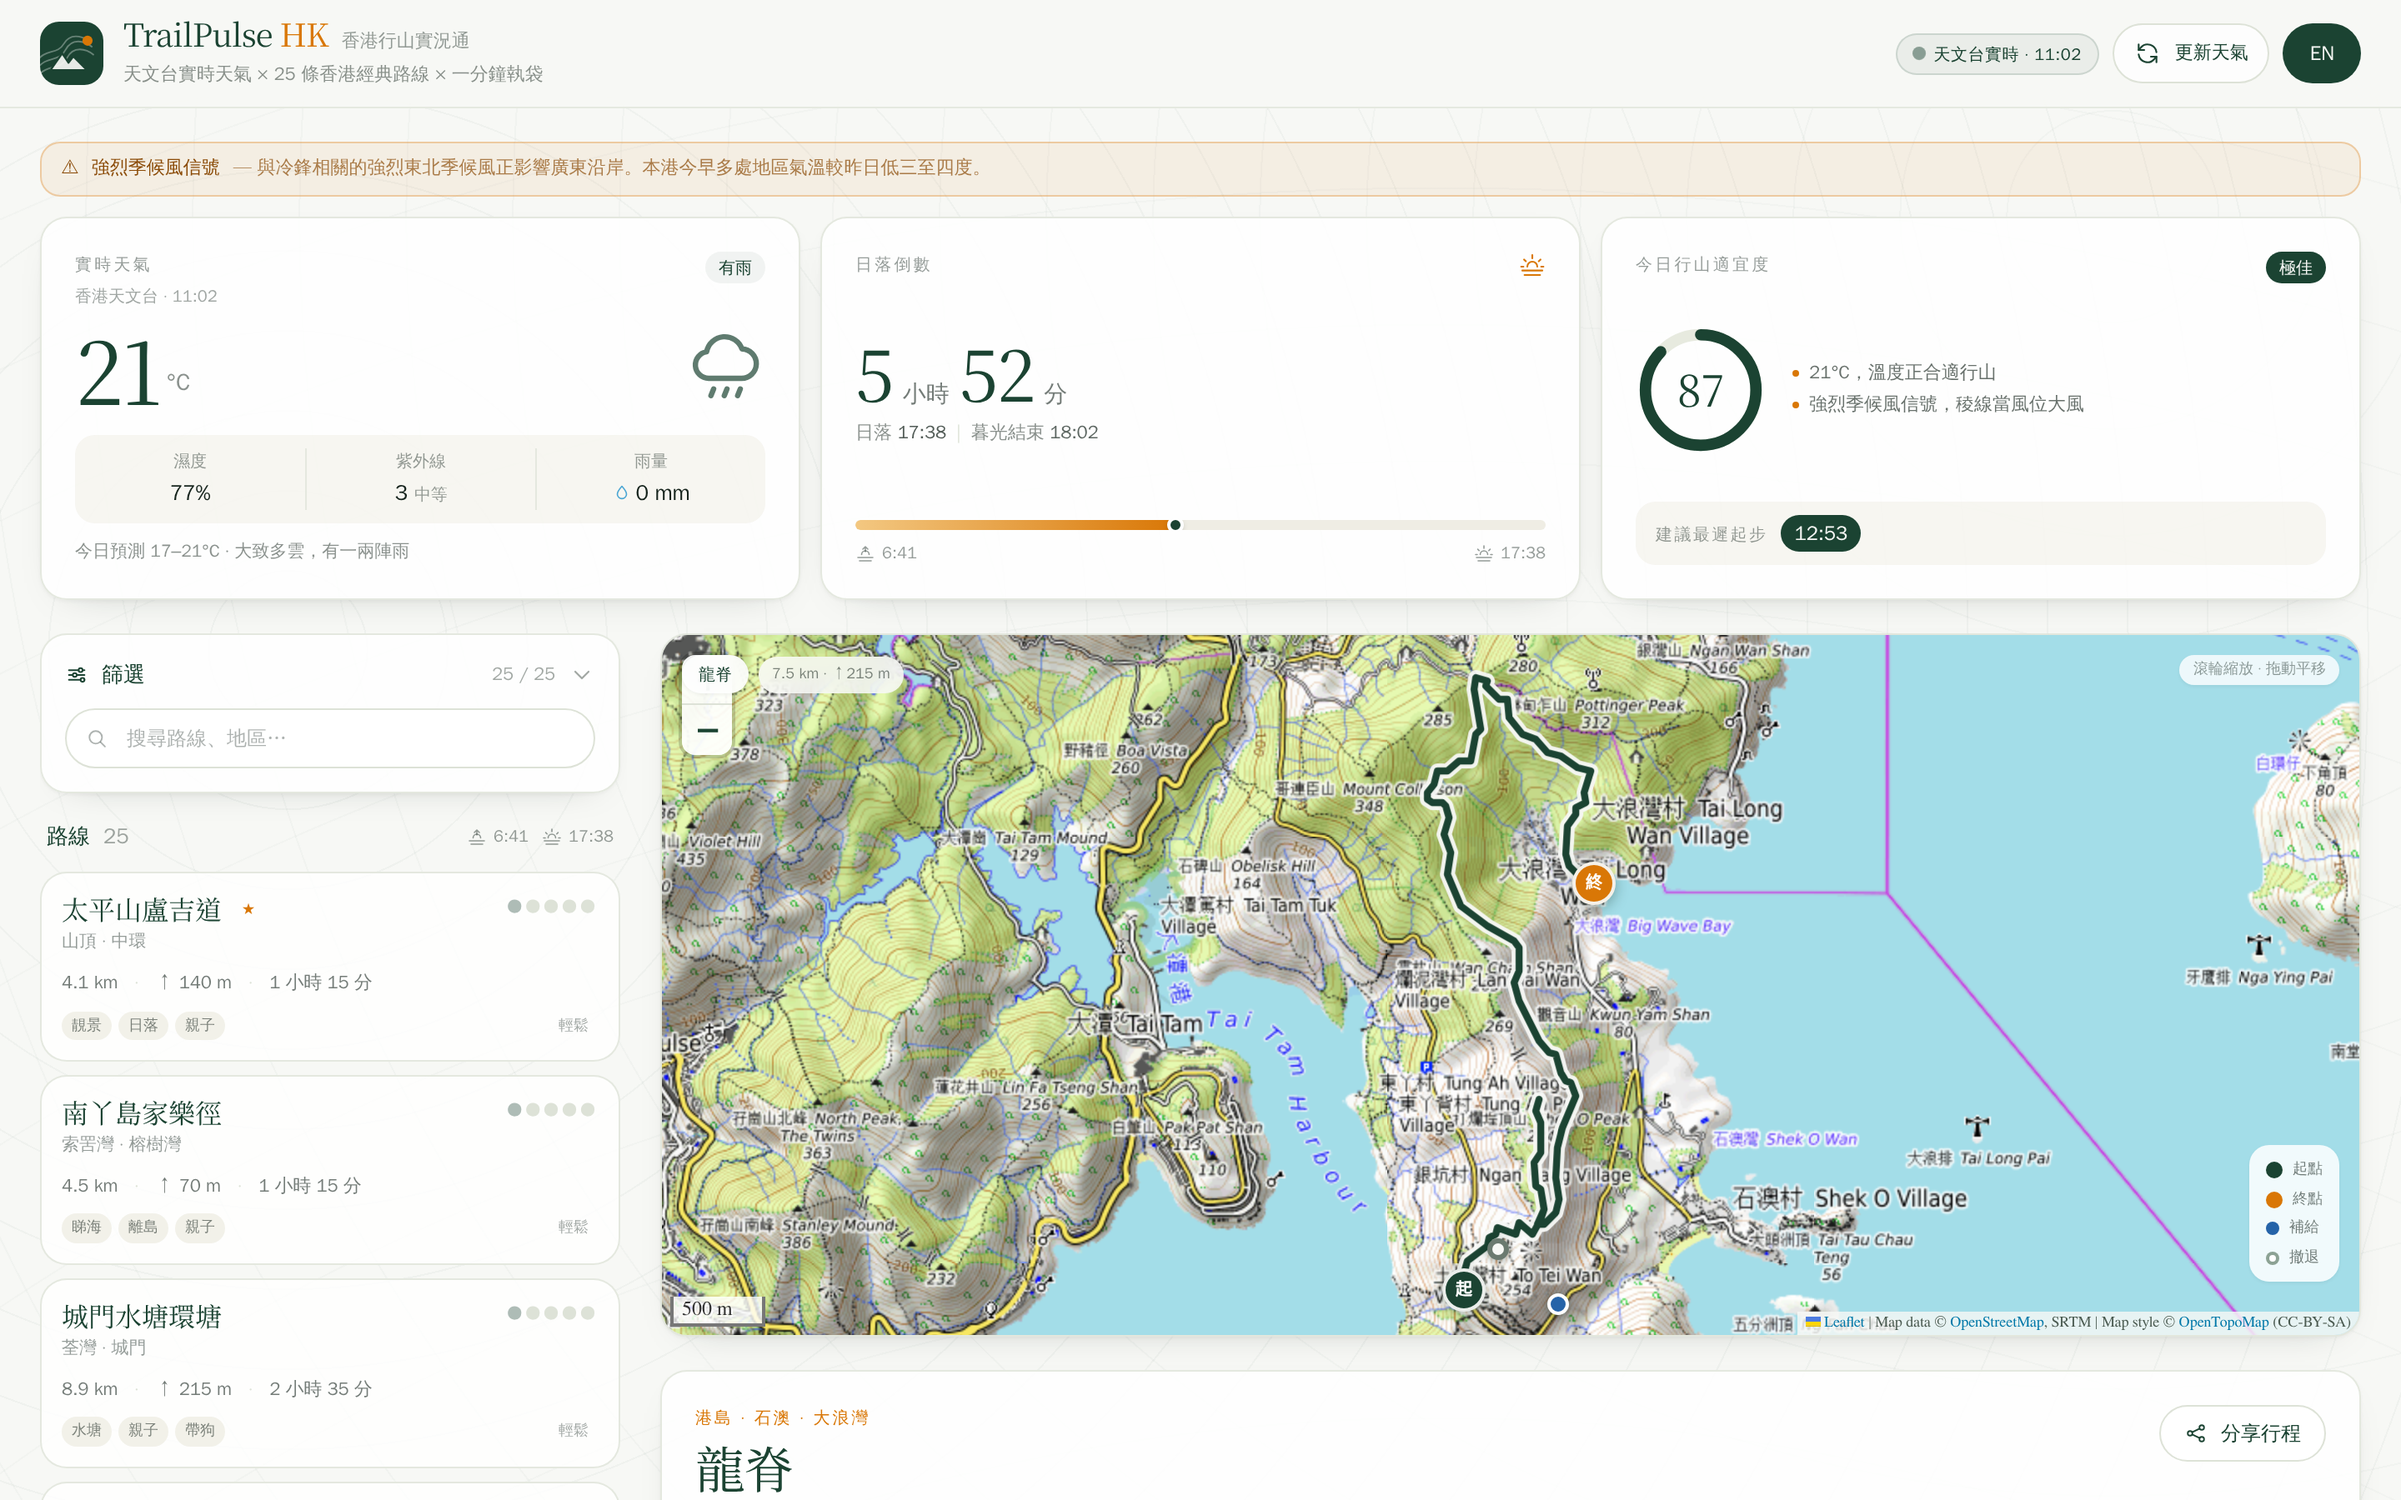
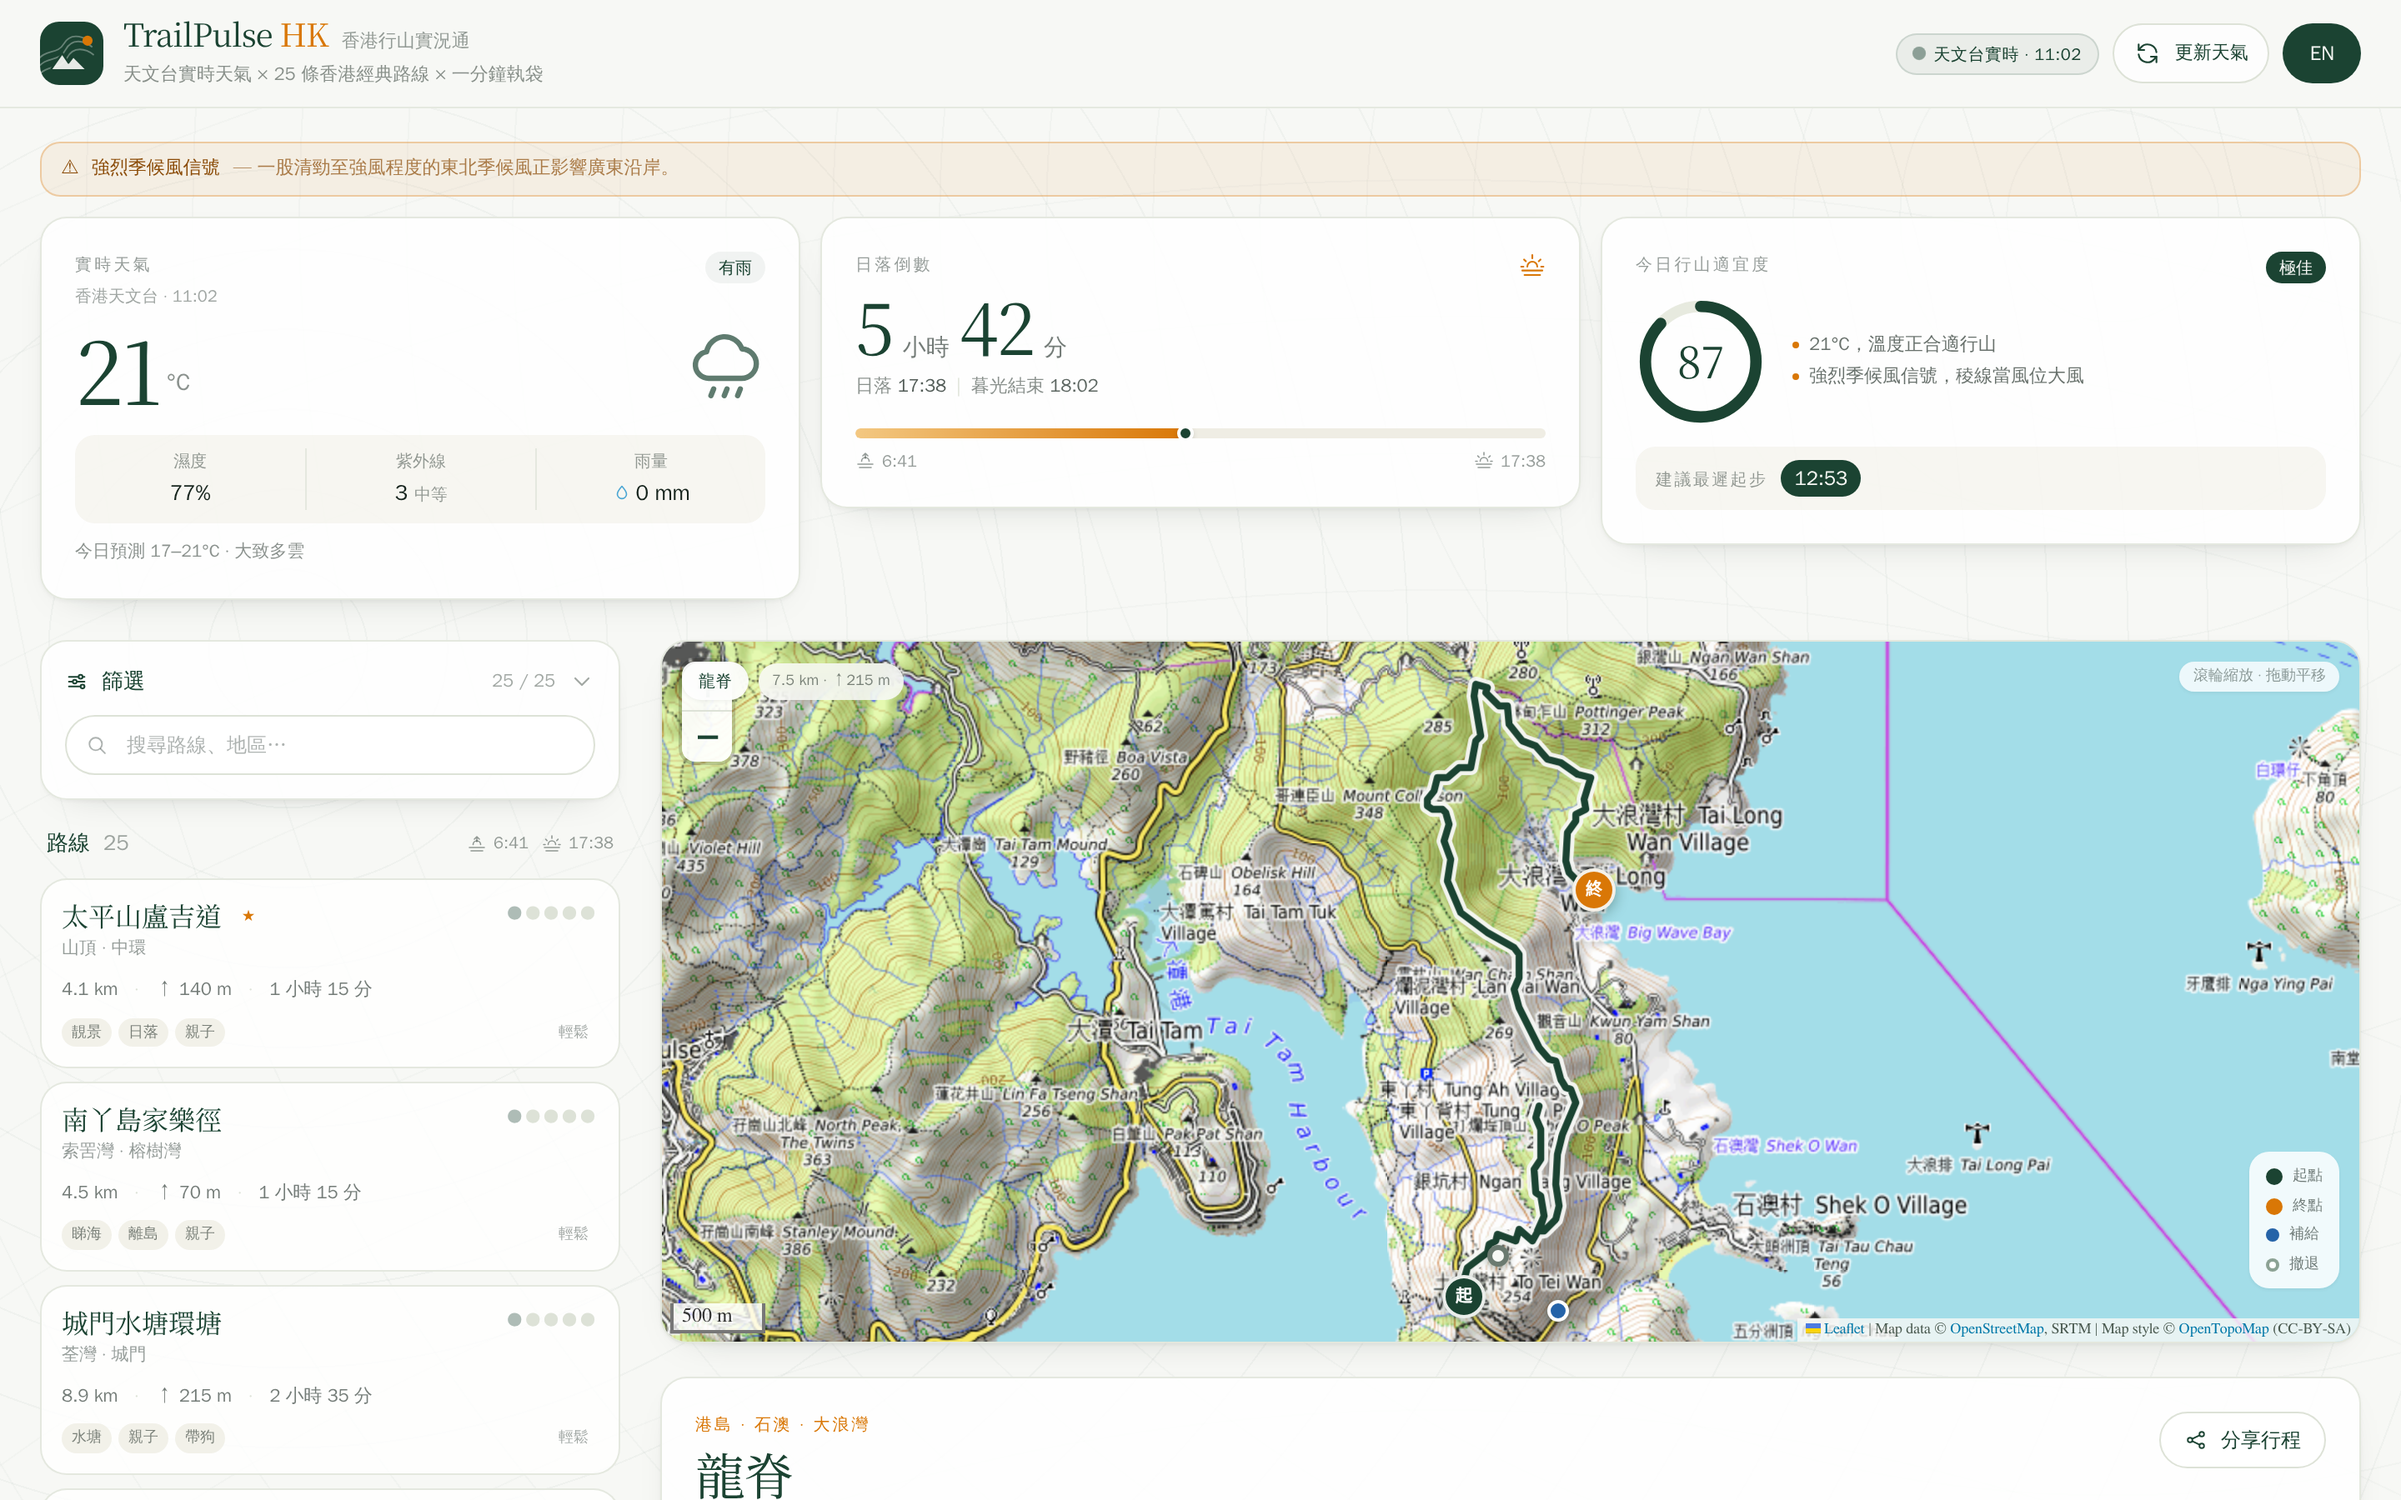
feat: English HKO text, swipeable KPI cards on mobile, safer map teardown
- fetch HKO rhrread/warnsum/flw in both tc and en so English mode has no Chinese left
- warning banner, forecast line, station label and UV description follow the UI language
- mobile KPI cards become a snap carousel so the map is visible on first screen
- keyed route map, no-animation fits and guarded teardown remove Leaflet _leaflet_pos errors
- single 起終 marker for out-and-back routes

diff --git a/components/KpiCards.tsx b/components/KpiCards.tsx
@@ -45,15 +45,22 @@ export function conditionLabel(kind: ReturnType<typeof weatherKind>, lang: Lang)
 export function WeatherCard({ weather, lang }: { weather: WeatherNow; lang: Lang }) {
   const c = dict[lang];
   const kind = weatherKind(weather.icon[0]);
-  const temp = weather.temperature.find((t) => t.place === "香港天文台")?.value ?? weather.temperature[0]?.value ?? 24;
+  const station = weather.temperature.find((t) => t.place === "香港天文台") ?? weather.temperature[0];
+  const temp = station?.value ?? 24;
   const rain = weather.rainfall.reduce((m, r) => Math.max(m, r.max ?? 0), 0);
+  const placeLabel = lang === "zh" ? "香港天文台" : station?.placeEn || "Hong Kong Observatory";
+  const uvDesc = lang === "en" ? weather.uv?.descEn || weather.uv?.desc : weather.uv?.desc;
+  const rawForecast = lang === "en" ? weather.forecastDescEn || weather.forecastDesc : weather.forecastDesc;
+  const forecastDesc = rawForecast.split(lang === "en" ? ". " : "。")[0];
 
   return (
     <article className="card relative flex flex-col justify-between overflow-hidden p-4 sm:p-5">
       <div className="flex items-start justify-between">
         <div>
           <p className="label">{c.weather}</p>
-          <p className="mt-1 text-[10px] text-ink/40">香港天文台 · {weather.updatedAt ? weather.updatedAt.slice(11, 16) : "—"}</p>
+          <p className="mt-1 text-[10px] text-ink/40">
+            {placeLabel} · {weather.updatedAt ? weather.updatedAt.slice(11, 16) : "—"}
+          </p>
         </div>
         <span className="rounded-full bg-forest/[0.06] px-2 py-0.5 text-[10px] font-semibold text-forest">
           {conditionLabel(kind, lang)}
@@ -77,7 +84,7 @@ export function WeatherCard({ weather, lang }: { weather: WeatherNow; lang: Lang
           <dt className="text-[10px] text-ink/45">{c.uv}</dt>
           <dd className="num mt-0.5 text-[13px] font-semibold text-ink">
             {weather.uv?.value ?? "—"}
-            {weather.uv ? <span className="ml-1 text-[10px] font-normal text-ink/45">{weather.uv.desc}</span> : null}
+            {weather.uv ? <span className="ml-1 text-[10px] font-normal text-ink/45">{uvDesc}</span> : null}
           </dd>
         </div>
         <div>
@@ -91,8 +98,8 @@ export function WeatherCard({ weather, lang }: { weather: WeatherNow; lang: Lang
 
       <p className="mt-2.5 line-clamp-1 text-[10.5px] text-ink/50">
         {weather.days[0]
-          ? `${c.forecast} ${weather.days[0].min ?? "–"}–${weather.days[0].max ?? "–"}°C · ${(weather.forecastDesc || weather.days[0].psr || "").split("。")[0]}`
-          : (weather.forecastDesc || c.allClear).split("。")[0]}
+          ? `${c.forecast} ${weather.days[0].min ?? "–"}–${weather.days[0].max ?? "–"}°C · ${forecastDesc || weather.days[0].psr || ""}`
+          : forecastDesc || c.allClear}
       </p>
     </article>
   );

diff --git a/lib/hko.ts b/lib/hko.ts
@@ -17,9 +17,9 @@ const FALLBACK: WeatherNow = {
   stale: true,
 };
 
-async function getJson<T>(dataType: string): Promise<T | null> {
+async function getJson<T>(dataType: string, lang: "tc" | "en" = "tc"): Promise<T | null> {
   try {
-    const res = await fetch(`${BASE}?dataType=${dataType}&lang=tc`, {
+    const res = await fetch(`${BASE}?dataType=${dataType}&lang=${lang}`, {
       next: { revalidate: 600 },
       signal: AbortSignal.timeout(7000),
       headers: { "User-Agent": "TrailPulseHK/1.0" },
@@ -62,27 +62,37 @@ type Fnd = {
 };
 
 export async function getWeather(): Promise<WeatherNow> {
-  const [rhr, warn, flw, fnd] = await Promise.all([
+  const [rhr, warn, flw, fnd, rhrEn, warnEn, flwEn] = await Promise.all([
     getJson<RhrRead>("rhrread"),
     getJson<WarnSum>("warnsum"),
     getJson<Flw>("flw"),
     getJson<Fnd>("fnd"),
+    getJson<RhrRead>("rhrread", "en"),
+    getJson<WarnSum>("warnsum", "en"),
+    getJson<Flw>("flw", "en"),
   ]);
 
   if (!rhr) return FALLBACK;
 
   const warnings: Warning[] = [];
   if (warn) {
-    for (const value of Object.values(warn)) {
+    for (const [key, value] of Object.entries(warn)) {
       if (value && value.code && value.actionCode !== "CANCEL") {
-        warnings.push({ code: value.code, name: value.name ?? value.code, actionCode: value.actionCode });
+        warnings.push({
+          code: value.code,
+          name: value.name ?? value.code,
+          nameEn: warnEn?.[key]?.name ?? warnEn?.[value.code]?.name,
+          actionCode: value.actionCode,
+        });
       }
     }
   }
 
   const tempData = rhr.temperature?.data ?? [];
+  const tempDataEn = rhrEn?.temperature?.data ?? [];
   const humidity = rhr.humidity?.data?.[0]?.value ?? null;
   const uv = rhr.uvindex?.data?.[0] ?? null;
+  const uvEn = rhrEn?.uvindex?.data?.[0] ?? null;
   const rainfall = (rhr.rainfall?.data ?? []).map((r) => ({ place: r.place, max: r.max }));
 
   const days = (fnd?.weatherForecast ?? []).slice(0, 5).map((d) => ({
@@ -96,15 +106,18 @@ export async function getWeather(): Promise<WeatherNow> {
 
   return {
     updatedAt: rhr.updateTime ?? "",
-    temperature: tempData.map((t) => ({ place: t.place, value: t.value })),
+    temperature: tempData.map((t, i) => ({ place: t.place, placeEn: tempDataEn[i]?.place, value: t.value })),
     humidity,
-    uv: uv ? { value: uv.value, desc: uv.desc } : null,
+    uv: uv ? { value: uv.value, desc: uv.desc, descEn: uvEn?.desc } : null,
     rainfall,
     icon: rhr.icon ?? [],
     warnings,
     situation: flw?.generalSituation || rhr.warningMessage?.join(" ") || "",
+    situationEn: flwEn?.generalSituation ?? "",
     forecastDesc: flw?.forecastDesc ?? "",
+    forecastDescEn: flwEn?.forecastDesc ?? "",
     outlook: flw?.outlook ?? "",
+    outlookEn: flwEn?.outlook ?? "",
     days,
     stale: false,
   };

diff --git a/components/TrailPulseApp.tsx b/components/TrailPulseApp.tsx
@@ -187,15 +187,27 @@ export default function TrailPulseApp({ initialWeather }: { initialWeather: Weat
         {weather.warnings.length > 0 ? (
           <div className="mb-3 flex flex-wrap items-center gap-x-2 gap-y-1 rounded-xl border border-amber/30 bg-amber/[0.07] px-3 py-2 text-[11px] leading-snug text-[#8A4A06]">
             <span className="font-bold">⚠</span>
-            <span className="font-semibold">{weather.warnings.map((w) => w.name).join(" · ")}</span>
-            {weather.situation ? <span className="hidden text-[#8A4A06]/70 sm:inline">— {weather.situation}</span> : null}
+            <span className="font-semibold">
+              {weather.warnings.map((w) => (lang === "en" ? w.nameEn || w.name : w.name)).join(" · ")}
+            </span>
+            {(lang === "en" ? weather.situationEn || weather.situation : weather.situation) ? (
+              <span className="hidden text-[#8A4A06]/70 sm:inline">
+                — {lang === "en" ? weather.situationEn || weather.situation : weather.situation}
+              </span>
+            ) : null}
           </div>
         ) : null}
 
-        <div className="grid gap-3 sm:grid-cols-2 md:grid-cols-3">
-          <WeatherCard weather={weather} lang={lang} />
-          <SunsetCard lang={lang} now={now} />
-          <SuitabilityCard data={today} lang={lang} />
+        <div className="no-scrollbar -mx-4 flex snap-x snap-mandatory gap-3 overflow-x-auto px-4 pb-1 sm:mx-0 sm:grid sm:grid-cols-2 sm:overflow-visible sm:px-0 md:grid-cols-3">
+          <div className="w-[86%] min-w-[270px] shrink-0 snap-start sm:w-auto sm:min-w-0">
+            <WeatherCard weather={weather} lang={lang} />
+          </div>
+          <div className="w-[86%] min-w-[270px] shrink-0 snap-start sm:w-auto sm:min-w-0">
+            <SunsetCard lang={lang} now={now} />
+          </div>
+          <div className="w-[86%] min-w-[270px] shrink-0 snap-start sm:w-auto sm:min-w-0">
+            <SuitabilityCard data={today} lang={lang} />
+          </div>
         </div>
 
         <div className="mt-4 grid gap-4 md:grid-cols-[300px_minmax(0,1fr)] lg:mt-5 lg:grid-cols-[352px_minmax(0,1fr)] lg:gap-5">

diff --git a/components/RouteDetail.tsx b/components/RouteDetail.tsx
@@ -1,7 +1,7 @@
 "use client";
 
 import { dict } from "@/lib/i18n";
-import { DIFFICULTY_LABEL, TAG_LABEL, formatTime, routeTime } from "@/lib/routes";
+import { DIFFICULTY_LABEL, REGION_LABEL, TAG_LABEL, formatTime, routeTime } from "@/lib/routes";
 import { formatMinutes, sunsetMinutes } from "@/lib/sun";
 import type { Lang, Route } from "@/lib/types";
 import { ArrowDownIcon, ArrowUpIcon, ClockIcon, LeafIcon, PinIcon, ShareIcon } from "./icons";
@@ -48,7 +48,7 @@ export default function RouteDetail({
         <div className="flex items-start justify-between gap-3">
           <div className="min-w-0">
             <p className="text-[10px] font-semibold uppercase tracking-[0.14em] text-amber">
-              {route.region} · {route.district[lang]}
+              {REGION_LABEL[route.region]?.[lang] ?? route.region} · {route.district[lang]}
             </p>
             <h2 data-testid="detail-title" className="mt-1 font-serif text-[26px] leading-tight tracking-tight text-forest sm:text-[30px]">{route.name[lang]}</h2>
           </div>

diff --git a/lib/types.ts b/lib/types.ts
@@ -55,19 +55,22 @@ export type Route = {
   waypointElevations: { name: string; elev: number; offM: number }[];
 };
 
-export type Warning = { code: string; name: string; actionCode?: string };
+export type Warning = { code: string; name: string; nameEn?: string; actionCode?: string };
 
 export type WeatherNow = {
   updatedAt: string;
-  temperature: { place: string; value: number }[];
+  temperature: { place: string; placeEn?: string; value: number }[];
   humidity: number | null;
-  uv: { value: number; desc: string } | null;
+  uv: { value: number; desc: string; descEn?: string } | null;
   rainfall: { place: string; max: number }[];
   icon: number[];
   warnings: Warning[];
   situation: string;
+  situationEn?: string;
   forecastDesc: string;
+  forecastDescEn?: string;
   outlook: string;
+  outlookEn?: string;
   days: { date: string; week: string; min: number | null; max: number | null; icon: number | null; psr: string }[];
   stale: boolean;
 };

diff --git a/lib/suitability.ts b/lib/suitability.ts
@@ -73,7 +73,7 @@ export function suitability(weather: WeatherNow, now = new Date()): Suitability 
     if (penalty) {
       score -= penalty;
       const text = WARNING_TEXT[warning.code];
-      reasons.push(text ?? { zh: `${warning.name}生效`, en: `${warning.name} in force` });
+      reasons.push(text ?? { zh: `${warning.name}生效`, en: `${warning.nameEn || warning.name} in force` });
     }
   }
 
